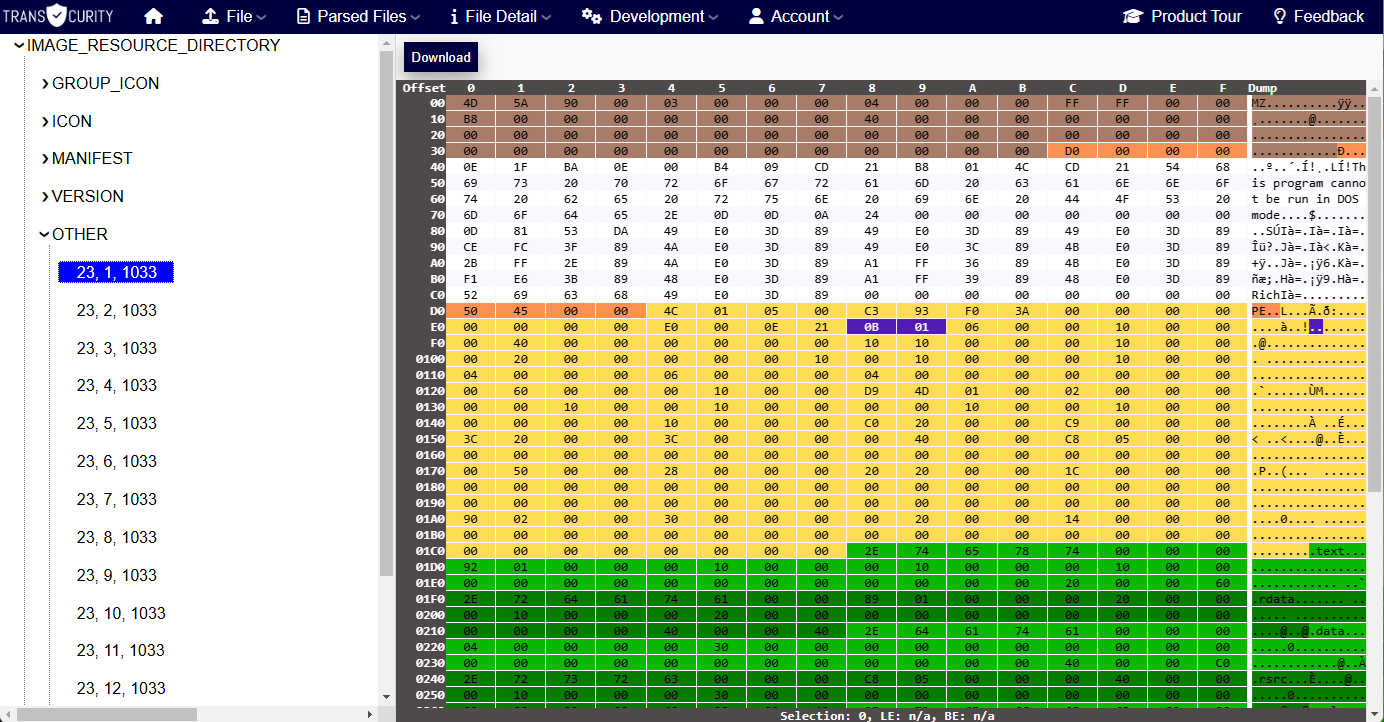
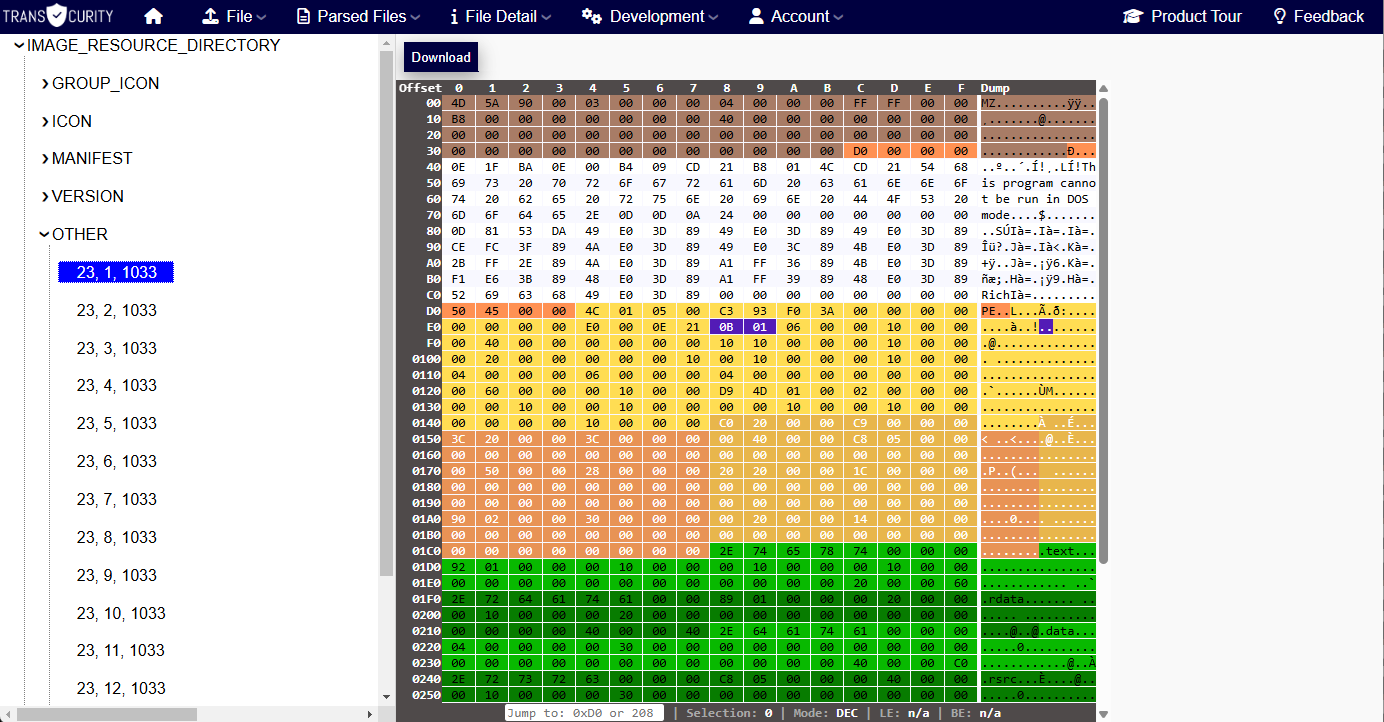
Migrate to Angular 21.2.12

diff --git a/contact.html b/contact.html
@@ -29,5 +29,5 @@
   })();
 </script>
 <app-root></app-root>
-<script src="polyfills-5FDKUQTZ.js" type="module"></script><script src="scripts-QINAJBKB.js" defer></script><script src="main-27BYMVGI.js" type="module"></script></body>
+<script src="polyfills-5FDKUQTZ.js" type="module"></script><script src="scripts-QINAJBKB.js" defer></script><script src="main-46CYR2B7.js" type="module"></script></body>
 </html>

diff --git a/imprint.html b/imprint.html
@@ -29,5 +29,5 @@
   })();
 </script>
 <app-root></app-root>
-<script src="polyfills-5FDKUQTZ.js" type="module"></script><script src="scripts-QINAJBKB.js" defer></script><script src="main-27BYMVGI.js" type="module"></script></body>
+<script src="polyfills-5FDKUQTZ.js" type="module"></script><script src="scripts-QINAJBKB.js" defer></script><script src="main-46CYR2B7.js" type="module"></script></body>
 </html>

diff --git a/index.html b/index.html
@@ -29,5 +29,5 @@
   })();
 </script>
 <app-root></app-root>
-<script src="polyfills-5FDKUQTZ.js" type="module"></script><script src="scripts-QINAJBKB.js" defer></script><script src="main-27BYMVGI.js" type="module"></script></body>
+<script src="polyfills-5FDKUQTZ.js" type="module"></script><script src="scripts-QINAJBKB.js" defer></script><script src="main-46CYR2B7.js" type="module"></script></body>
 </html>

diff --git a/platform.html b/platform.html
@@ -29,5 +29,5 @@
   })();
 </script>
 <app-root></app-root>
-<script src="polyfills-5FDKUQTZ.js" type="module"></script><script src="scripts-QINAJBKB.js" defer></script><script src="main-27BYMVGI.js" type="module"></script></body>
+<script src="polyfills-5FDKUQTZ.js" type="module"></script><script src="scripts-QINAJBKB.js" defer></script><script src="main-46CYR2B7.js" type="module"></script></body>
 </html>

diff --git a/release-notes.html b/release-notes.html
@@ -29,5 +29,5 @@
   })();
 </script>
 <app-root></app-root>
-<script src="polyfills-5FDKUQTZ.js" type="module"></script><script src="scripts-QINAJBKB.js" defer></script><script src="main-27BYMVGI.js" type="module"></script></body>
+<script src="polyfills-5FDKUQTZ.js" type="module"></script><script src="scripts-QINAJBKB.js" defer></script><script src="main-46CYR2B7.js" type="module"></script></body>
 </html>

diff --git a/team.html b/team.html
@@ -29,5 +29,5 @@
   })();
 </script>
 <app-root></app-root>
-<script src="polyfills-5FDKUQTZ.js" type="module"></script><script src="scripts-QINAJBKB.js" defer></script><script src="main-27BYMVGI.js" type="module"></script></body>
+<script src="polyfills-5FDKUQTZ.js" type="module"></script><script src="scripts-QINAJBKB.js" defer></script><script src="main-46CYR2B7.js" type="module"></script></body>
 </html>